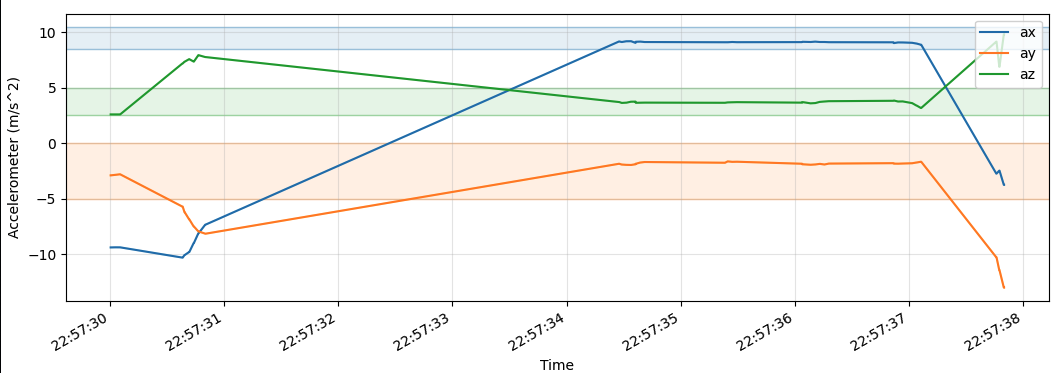
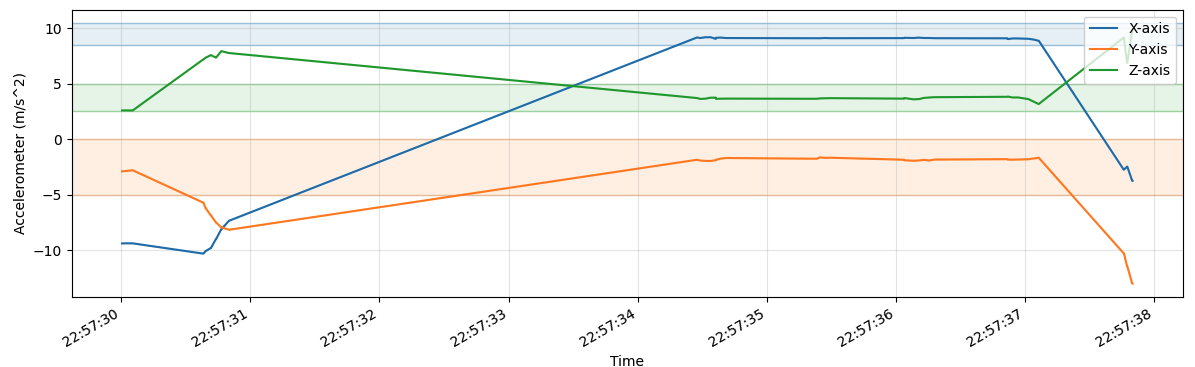
gesture hand up

diff --git a/includes/chapter5.tex b/includes/chapter5.tex
@@ -26,6 +26,44 @@ ochranný mechanizmus -- flickovacie gestá sú
 vyhodnocované len vtedy, keď rozhodca vedome zdvihne
 ruku, čím sa predchádza nechcenému pripočítaniu bodov.
 
+\begin{figure}[H]
+    \centering
+    \includegraphics[width=0.9\textwidth]{img/subgesture-hand-up-example.png}
+    \caption{Príklad priebehu akcelerometrických dát
+    počas gesta „Rise Arm".}
+    \label{fig:subgesture-hand-up}
+\end{figure}
+
+Na obrázku~\ref{fig:subgesture-hand-up} je zobrazený
+priebeh akcelerometrických dát počas vykonania gesta
+\uv{Rise Arm}. Na grafe je viditeľný výrazný prechod
+osi $a_x$ (modrá) z~hodnôt okolo
+$-10\,\text{m/s}^2$ na približne $+9\,\text{m/s}^2$,
+čo zodpovedá zmene orientácie zápästia zo spustenej
+polohy do zdvihnutej. Farebné pásma znázorňujú
+očakávané rozsahy hodnôt pre jednotlivé osi
+v~cieľovej polohe.
+
+Na základe analýzy nameraných akcelerometrických dát
+boli stanovené hraničné hodnoty pre jednotlivé osi,
+ktoré definujú cieľovú polohu gesta \uv{Rise Arm},
+kde $a_x$, $a_y$ a~$a_z$ označujú hodnoty zrýchlenia
+na príslušných osiach akcelerometra. Tieto rozsahy
+sú znázornené farebnými pásmami na
+obrázku~\ref{fig:subgesture-hand-up} a~ich konkrétne
+hodnoty sú nasledovné:
+
+\begin{itemize}
+    \item \colorbox{xaxis!20}{$8{,}5 \leq a_x \leq 10{,}5 \;\text{m/s}^2$}
+    \item \colorbox{yaxis!20}{$-5{,}0 \leq a_y \leq 0{,}0 \;\text{m/s}^2$}
+    \item \colorbox{zaxis!20}{$2{,}5 \leq a_z \leq 5{,}0 \;\text{m/s}^2$}
+\end{itemize}
+
+Ak sa hodnoty všetkých troch osí súčasne nachádzajú
+v~rámci uvedených rozsahov, dôjde k~úspešnému rozpoznaniu
+gesta \uv{Rise Arm} a~aplikácia sa prepne do režimu
+bodovania, v~ktorom sú následne vyhodnocované flickovacie gestá.
+
 \subsubsection{Fáza 2 -- FLICK}
 
 Po aktivácii režimu bodovania rozhodca vykoná rýchly

diff --git a/thesis.tex b/thesis.tex
@@ -39,9 +39,11 @@
 
 % Bibliography database file
 \bibliography{includes/bibliography.bib}
+\input{includes/colors}
 
 \begin{document}
 
+\pagenumbering{roman}
 %%%%%%%%%%%%%%%%%%
 %%              %%
 %% FRONT MATTER %%
@@ -88,6 +90,10 @@
 %%             %%
 %%%%%%%%%%%%%%%%%
 \mainmatter
+
+\clearpage
+\pagenumbering{arabic}
+\setcounter{page}{1}
 
 \FEIintroduction{includes/introduction}
 \FEIcore{includes/core}

diff --git a/includes/colors.tex b/includes/colors.tex
@@ -1,0 +1,3 @@
+\definecolor{xaxis}{HTML}{1F77B4}
+\definecolor{yaxis}{HTML}{FF7F0E}
+\definecolor{zaxis}{HTML}{2CA02C}
